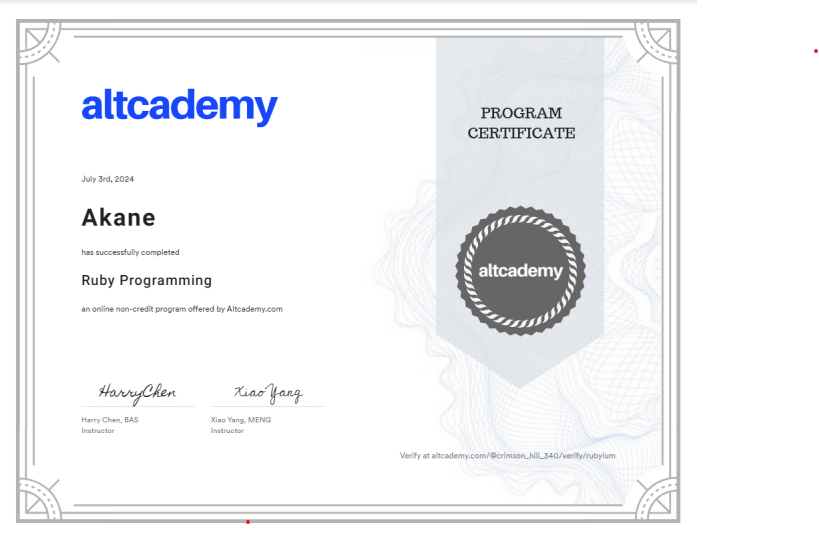
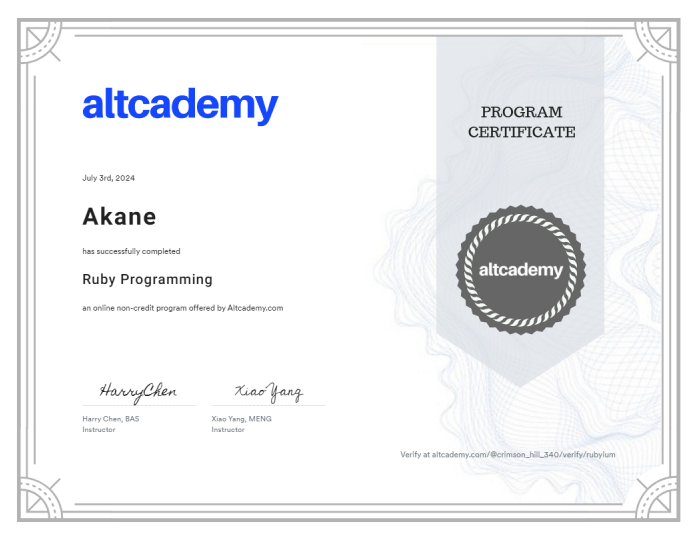
Trim images at 'Certificates' section & work for spacing

diff --git a/index_ja.html b/index_ja.html
@@ -126,7 +126,7 @@
           </div>
         </div>
 
-        <div class="about-me-links mt-4 mb-5">
+        <div class="about-me-links mt-4">
           <a class="about-me-link" href="https://www.akane1033.com/" title="個人ブログ「ドイツ人ストリートミュージシャンと結婚しました」" target="_blank" rel="noopener noreferrer"><i class="fa-solid fa-blog"></i></a>
 
           <a class="about-me-link" href="https://www.linkedin.com/in/akane-otake-a3b3ba263/" title="LinkedIn" target="_blank" rel="noopener noreferrer"><i class="fa-brands fa-linkedin"></i></a>
@@ -143,7 +143,7 @@
     <div class="container-fluid content-height-lg bg-parallax">
       <div class="content-text-lg">
         <h2>Works</h2>
-        <p class="pb-4">
+        <p>
           腕によりをかけて制作した制作物を紹介します。
         </p>
         
@@ -356,12 +356,12 @@
         <form id="contact-form" class="mt-5">
           <input type="hidden" name="contact_number">
           <div class="row">
-            <div class="col-4 row contact-form-item">
-              <i class="fa-regular fa-user col-2 my-auto"></i>
-              <input type="text" name="user_name" placeholder="Name" class="col-10" required>
+            <div class="col-12 col-md-4 row contact-form-item">
+              <i class="fa-regular fa-user col-1 col-md-2 my-auto"></i>
+              <input type="text" name="user_name" placeholder="Name" class="col-11 col-md-10" required>
             </div>
             
-            <div class="col-8 row contact-form-item">
+            <div class="col-12 col-md-8 row contact-form-item">
               <i class="fa-regular fa-envelope col-1 my-auto"></i>
               <input type="email" name="user_email" placeholder="Email" class="col-11" required>
             </div>

diff --git a/style.css b/style.css
@@ -14,7 +14,7 @@ h1, h2, h3, h4, h5 {
 h2 {
   font-size: 35px;
   font-weight: bold;
-  margin: 20px;
+  margin-bottom: 20px;
 }
 
 h3 {
@@ -44,8 +44,8 @@ p {
 .content-height-lg {
   display: flex;
   align-items: center;
-  padding-top: 30px;
-  padding-bottom: 30px;
+  padding-top: 70px;
+  padding-bottom: 70px;
 }
 
 @media screen and (min-width: 768px) {
@@ -100,7 +100,6 @@ p {
 }
 
 /* About me */
-
 @media screen and (min-width: 576px) {
   .about-me-text {
     text-align: left;
@@ -122,7 +121,7 @@ p {
 
 /* Works */
 .work-item {
-  padding-bottom: 40px;
+  padding-top: 40px;
 }
 
 .work-img {
@@ -155,7 +154,6 @@ p {
 }
 
 /* Skills & Certificates */
-
 .skill-item > i {
   font-size: 50px;
 }
@@ -172,7 +170,13 @@ p {
 }
 
 .certificate-item {
-  padding-bottom: 30px;
+  margin-bottom: 30px;
+}
+
+.certificate-item a img {
+  width: 100%;
+  aspect-ratio: 3/2;
+  object-fit: contain;
 }
 
 /* Contact */
